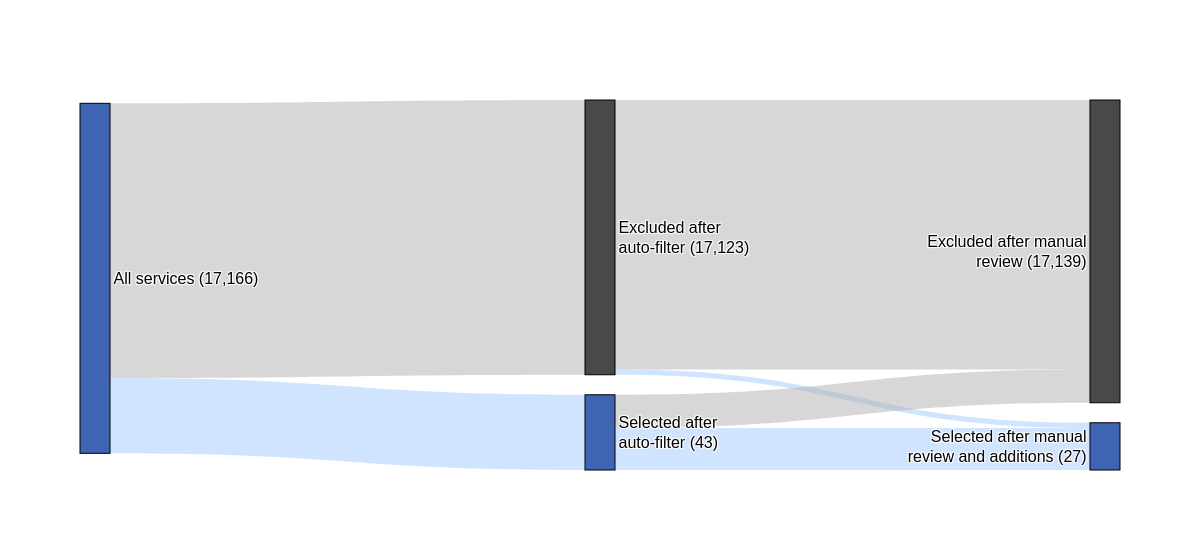
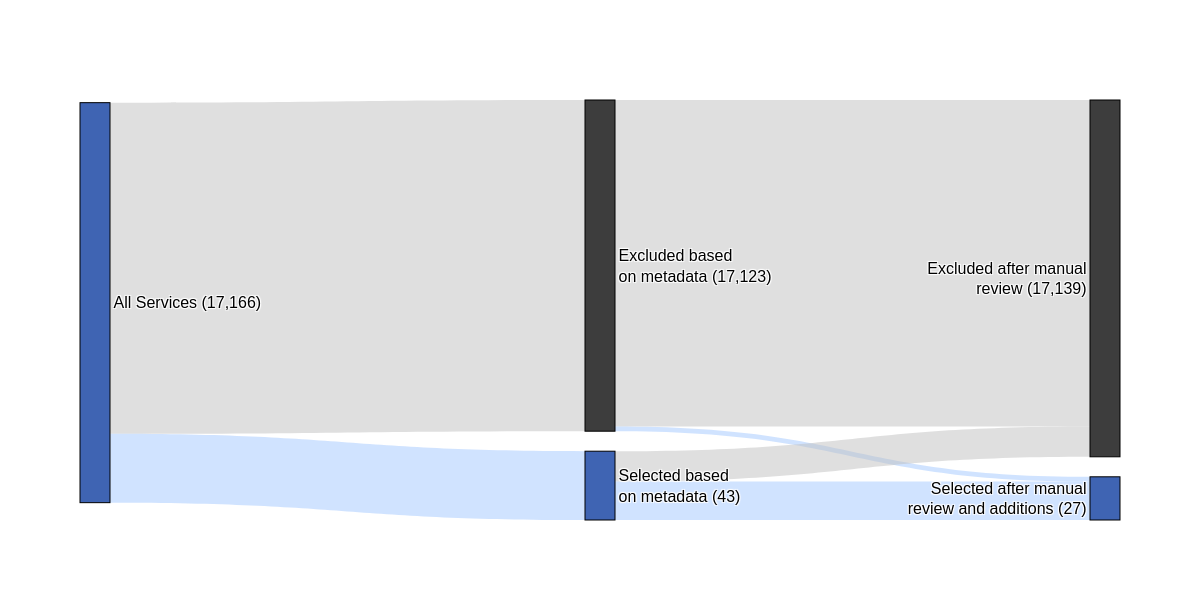
Adjust size of benefit selectoin sankey

diff --git a/Analysis/VisualizeBenefitSelection.py b/Analysis/VisualizeBenefitSelection.py
@@ -38,7 +38,7 @@ def create_benefits_selection_sankey(node_labels: List[str],
             thickness=30,
             line=dict(color="black", width=1),
             label=node_labels,
-            color=node_colors
+            color=node_colors,
         ),
         link=dict(
             source=sources,
@@ -53,12 +53,13 @@ def create_benefits_selection_sankey(node_labels: List[str],
         paper_bgcolor="white",
         plot_bgcolor="white",
         width=1200,
-        height=600
+        height=600,
+        font=dict(size=16, color="black"),
     )
 
     # Optionally save to SVG
     if save_path:
-        fig.write_image(save_path, format='svg')
+        fig.write_image(save_path, format='png')
         print(f"Sankey diagram saved to: {save_path}")
 
     fig.show()
